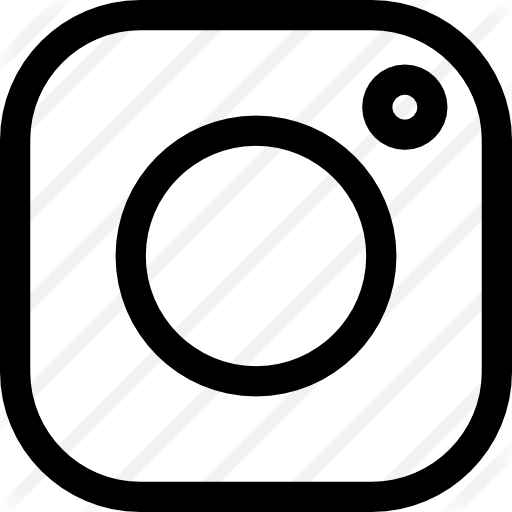
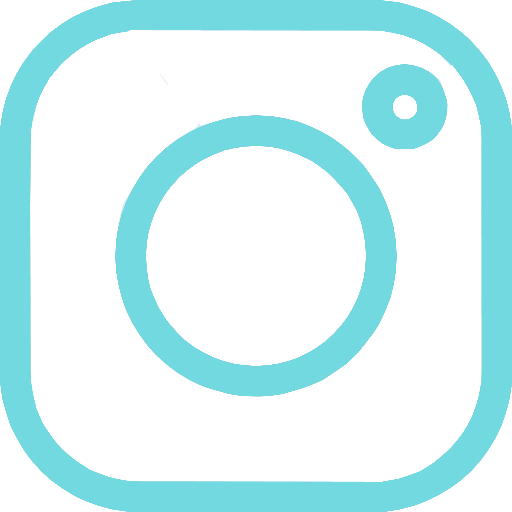
Footer ikonok kiszinezve

diff --git a/html5-boilerplate_v7.2.0/index.html b/html5-boilerplate_v7.2.0/index.html
@@ -94,7 +94,7 @@
       </div>
     </div>
   </section>
-  <section class="footer">
+  <footer>
     <div class="row around-xs">
       <div class="col-xs-2">
         <div class="box" id="title-box">
@@ -137,7 +137,7 @@
         </div>
       </div>   
     </div>
-  </section>
+  </footer>
 
   <!-- jQuery és JavaScript a carousel-hez -->
   <script src="https://code.jquery.com/jquery-2.2.0.min.js" type="text/javascript"></script>

diff --git a/html5-boilerplate_v7.2.0/css/main.css b/html5-boilerplate_v7.2.0/css/main.css
@@ -527,7 +527,7 @@ color: black;
 transition: all ease-in-out .3s;
 }
 
-.footer {
+footer {
   background-color: white;
 }
 
